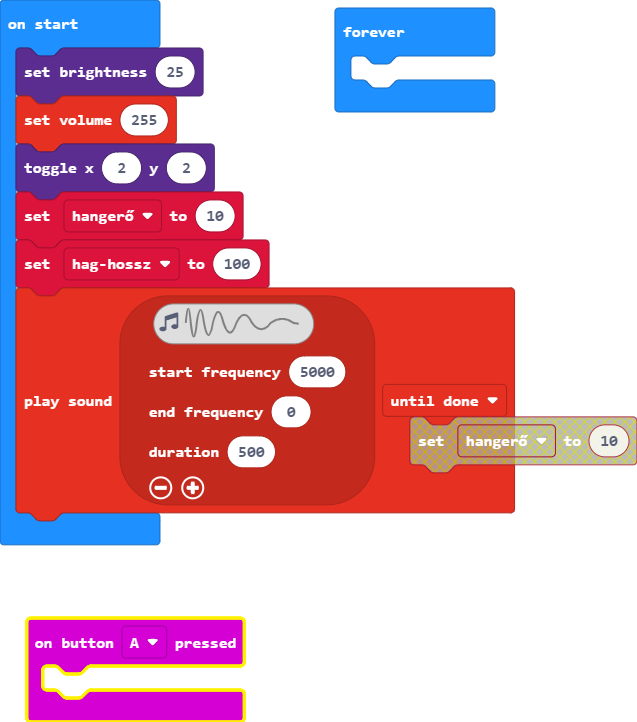
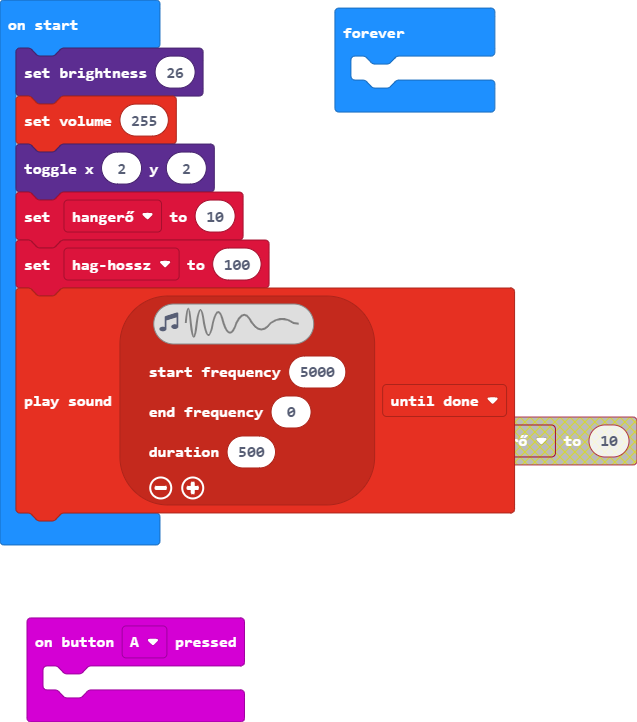
Update main.blocks, main.ts

diff --git a/main.ts b/main.ts
@@ -1,7 +1,7 @@
 input.onButtonPressed(Button.A, function () {
 	
 })
-led.setBrightness(25)
+led.setBrightness(26)
 music.setVolume(255)
 led.toggle(2, 2)
 let hangerő = 10
